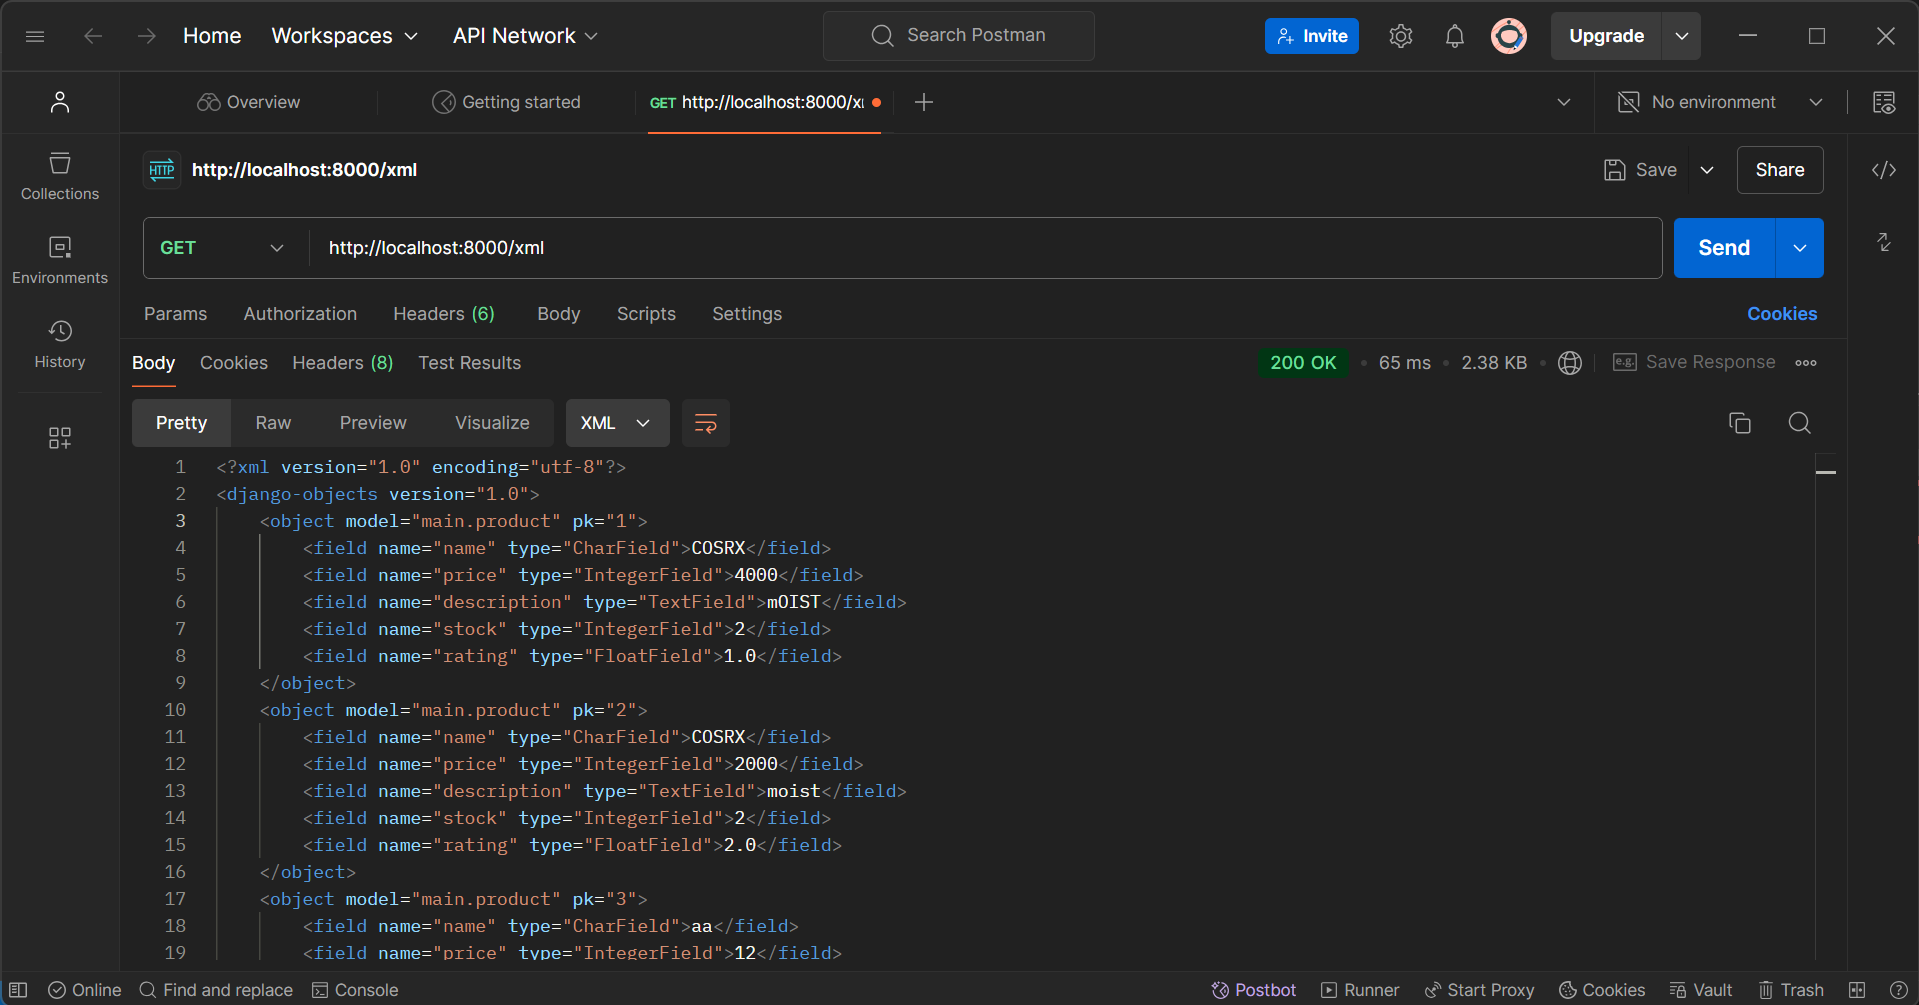
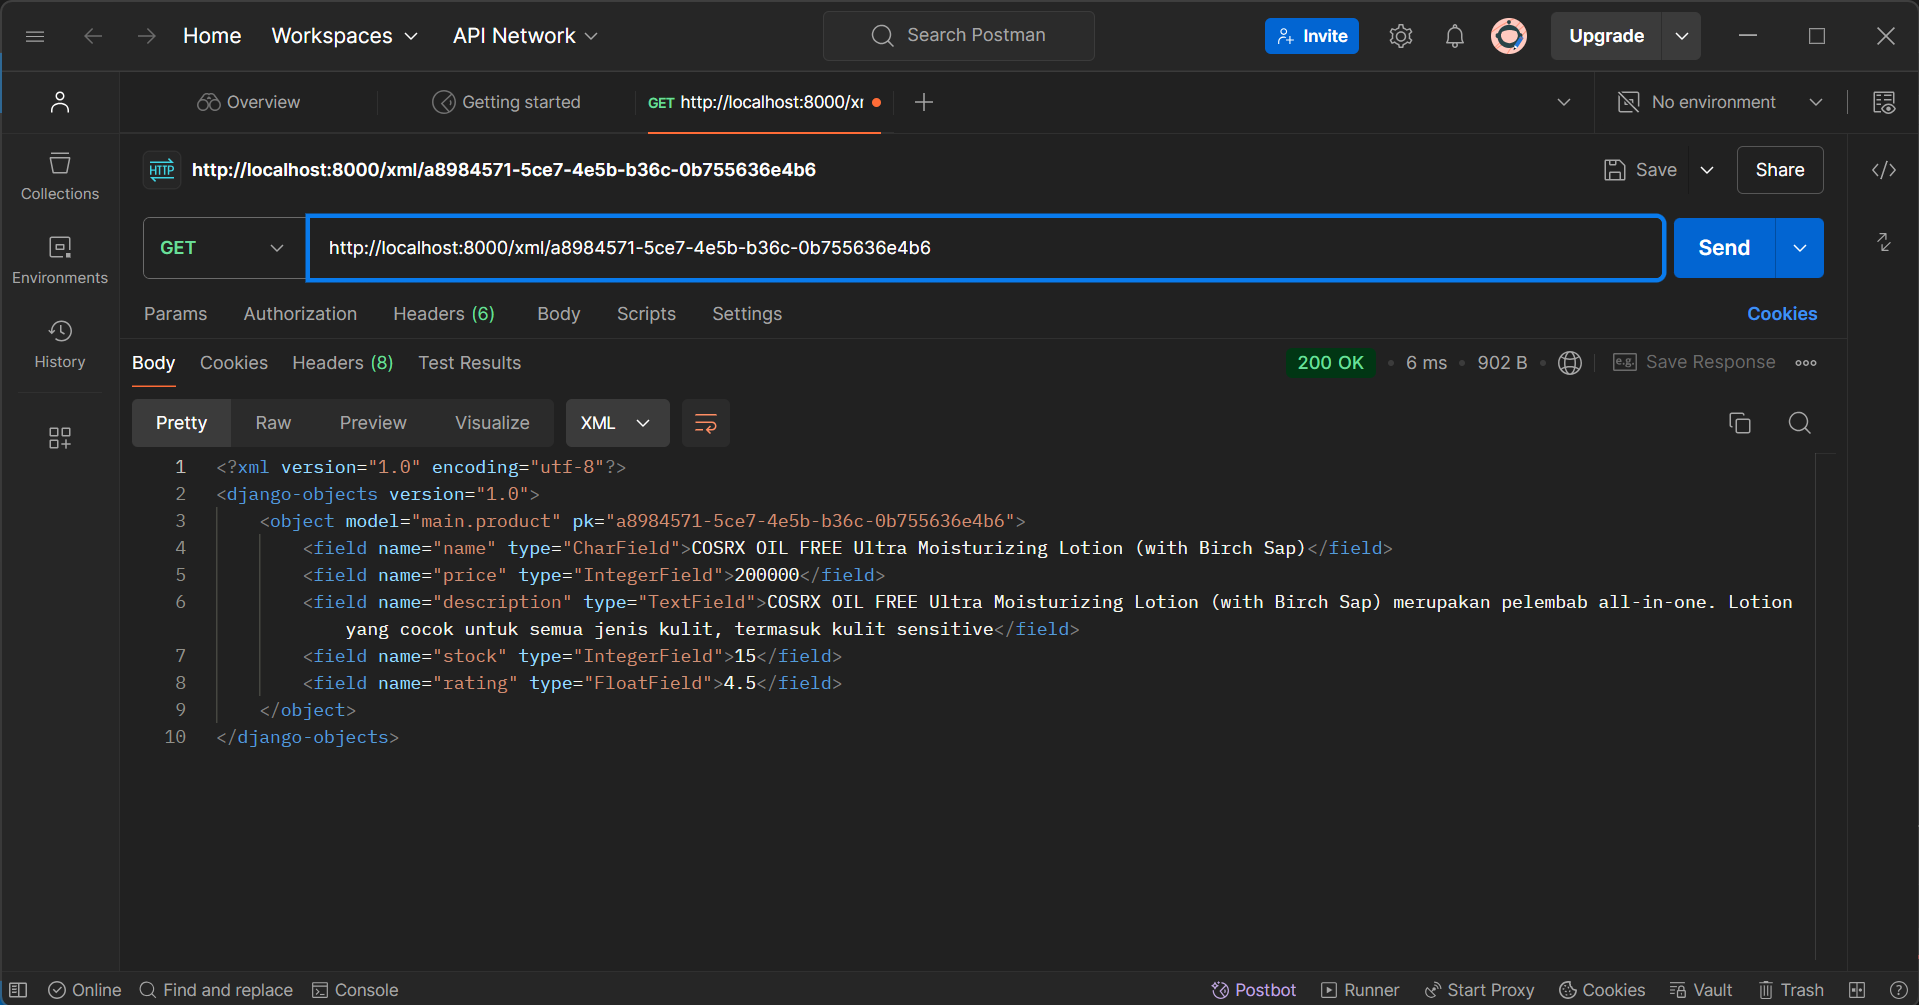
fix: tugas 3

diff --git a/main/templates/main.html b/main/templates/main.html
@@ -1,7 +1,7 @@
 {% extends 'base.html' %}
 {% block content %}
 <h1>Shop at Fresh n Bloom</h1>
-<h4>by: Anggun Sasmitha Dewi (2306165673)</h4>
+<h4>by: Anggun Sasmitha Dewi (2306165673/PBP A)</h4>
 
 {% if not product_entries %}
 <p>Belum ada data product pada Fresh n Bloom.</p>

diff --git a/main/migrations/0004_alter_product_id.py b/main/migrations/0004_alter_product_id.py
@@ -1,0 +1,19 @@
+# Generated by Django 5.1 on 2024-09-16 11:16
+
+import uuid
+from django.db import migrations, models
+
+
+class Migration(migrations.Migration):
+
+    dependencies = [
+        ('main', '0003_remove_product_by_remove_product_kelas'),
+    ]
+
+    operations = [
+        migrations.AlterField(
+            model_name='product',
+            name='id',
+            field=models.UUIDField(default=uuid.uuid4, editable=False, primary_key=True, serialize=False),
+        ),
+    ]

diff --git a/main/views.py b/main/views.py
@@ -4,13 +4,10 @@ from main.forms import ProductForm
 from django.http import HttpResponse
 from django.core import serializers
 
-# Create your views here.
 def show_main(request):
     product_entries = Product.objects.all()
     
     context = {
-        'by' : 'Anggun Sasmitha Dewi',
-        'kelas' : 'PBP A',
         'product_entries' : product_entries
     }
 

diff --git a/main/models.py b/main/models.py
@@ -2,6 +2,7 @@ import uuid
 from django.db import models
 
 class Product(models.Model):
+    id = models.UUIDField(primary_key=True, default=uuid.uuid4, editable=False)
     name = models.CharField(max_length=255)
     price = models.IntegerField()
     description = models.TextField()

diff --git a/README.md b/README.md
@@ -233,6 +233,7 @@ Dengan dikirimkannya request palsu, penyerang dapat memanfaatkan kesempatan ini 
     from django.db import models
 
     class Product(models.Model):
+        id = models.UUIDField(primary_key=True, default=uuid.uuid4, editable=False)
         name = models.CharField(max_length=255)
         price = models.IntegerField()
         description = models.TextField()
@@ -385,13 +386,13 @@ Dengan dikirimkannya request palsu, penyerang dapat memanfaatkan kesempatan ini 
 
 ### Screenshot hasil Postman
  - XML
- ![alt text](image-1.png)
+ ![alt text](image-5.png)
  - JSON
- ![alt text](image-4.png)
- - XML by ID
- ![alt text](image-2.png)
- - JSON by ID
  ![alt text](image-3.png)
+ - XML by ID
+ ![alt text](image-1.png)
+ - JSON by ID
+ ![alt text](image-2.png)
 
 ## Referensi
 Amazon Web Services. (n.d.). The difference between JSON and XML. Amazon Web Services. Retrieved September 16, 2024, from https://aws.amazon.com/compare/the-difference-between-json-xml/#:~:text=JSON%20is%20generally%20a%20better,structures%20that%20require%20data%20exchange.
